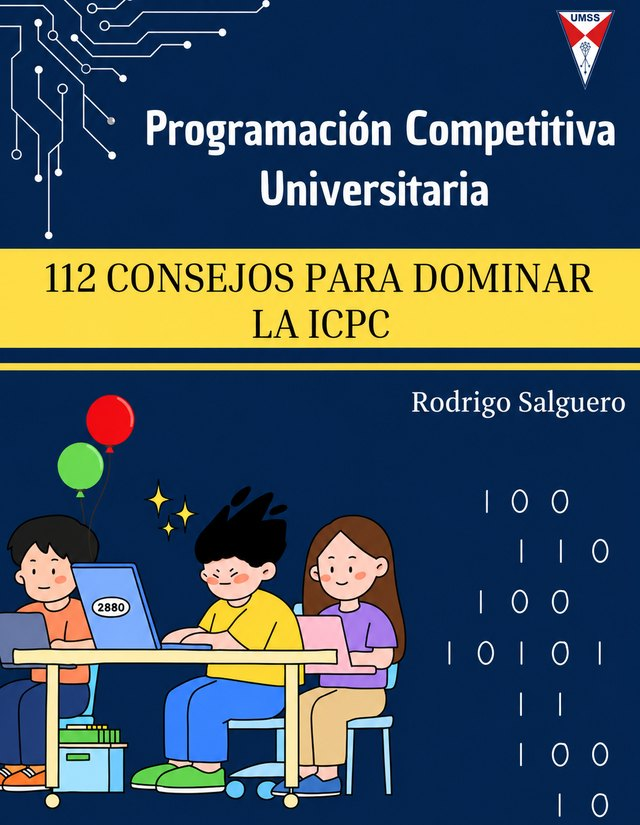
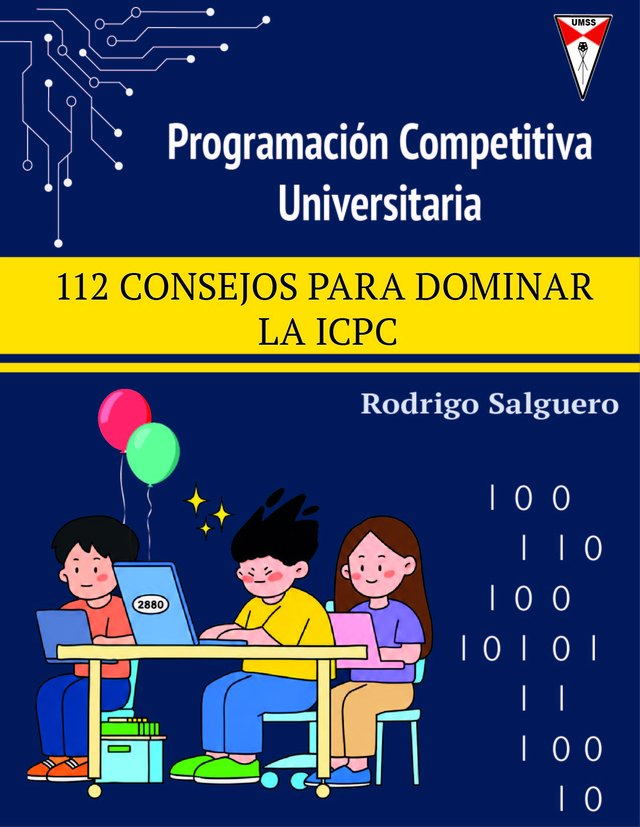
Tapa y contratapa finales del diseñador
- tapa.jpg y contratapa.jpg (CMYK, 300 dpi, tamaño exacto de página) reemplazan a las PNG
- Contratapa sin la franja blanca de la exportación
- main.tex: las imágenes ocupan exactamente la página (ya no traen sangrado)
- Web: tapa nueva y texto de "Sobre el libro" igual al de la contratapa
- CLAUDE.md y README actualizados

diff --git a/index.html b/index.html
@@ -209,7 +209,7 @@
 
   <header class="portada">
     <div class="contenedor">
-      <img class="tapa" src="web/tapa.jpg" width="640" height="825"
+      <img class="tapa" src="web/tapa.jpg" width="640" height="827"
            alt="Tapa del libro: Programación Competitiva Universitaria, 112 consejos para dominar la ICPC, de Rodrigo Salguero">
       <div>
         <p class="antetitulo">Equipo ICPC · UMSS</p>
@@ -232,7 +232,8 @@
       <div class="contenedor">
         <h2>Sobre el libro</h2>
         <blockquote class="cita">
-          <p>Rodrigo Salguero en este libro comparte su experiencia y la de otros competidores de Bolivia que han representado a sus Universidades y a nuestro país en justas competitivas en distintos niveles. Su trabajo de investigación ha culminado en este compendio de 112 consejos, que esperamos sea de provecho para los actuales y futuros competidores de nuestro país.</p>
+          <p>Rodrigo Salguero en este libro comparte su experiencia y la de otros competidores de Bolivia, quienes han representado a sus Universidades y a nuestro país en justas competitivas en distintos niveles.</p>
+          <p>Su trabajo de investigación ha culminado en este compendio de 112 consejos, que esperamos sea de provecho para los actuales y futuros competidores de nuestro país.</p>
           <footer>Leticia Blanco, Vladimir Costas · Equipo ICPC – UMSS</footer>
         </blockquote>
       </div>

diff --git a/main.tex b/main.tex
@@ -55,8 +55,8 @@
 
 \begin{document}
 
-% Página completa con una imagen (tapa/contratapa). Las imágenes traen
-% 3 mm de sangrado por lado (11.4 x 14.55 cm): lo que sobra queda fuera de la página.
+% Página completa con una imagen (tapa/contratapa). Las imágenes miden
+% exactamente la página (10.8 x 13.95 cm, sin sangrado).
 % Si \sintapas está definido (ver pachabook-sin-tapas.tex), no genera nada:
 % sale el libro sin tapa ni contratapa, conservando las páginas en blanco.
 \newcommand{\paginaimagen}[1]{%
@@ -64,7 +64,7 @@
     \clearpage
     \thispagestyle{empty}%
     \AddToShipoutPictureBG*{\AtPageCenter{%
-      \makebox(0,0){\includegraphics[width=11.4cm]{#1}}}}%
+      \makebox(0,0){\includegraphics[width=\paperwidth,height=\paperheight]{#1}}}}%
     \mbox{}%
     \clearpage
   \fi
@@ -80,7 +80,7 @@
 % ================== TAPA (sin número) ==================
 \pagenumbering{gobble}    % oculta numeración antes del contenido
 
-\paginaimagen{tapa}
+\paginaimagen{tapa.jpg}
 \paginablanco
 
 % ================== EPÍGRAFE ==================
@@ -108,6 +108,6 @@
 % con la numeración: la contratapa debe caer en página par.
 \clearpage
 \ifodd\value{page}\paginablanco\fi
-\paginaimagen{contratapa}
+\paginaimagen{contratapa.jpg}
 
 \end{document}

diff --git a/CLAUDE.md b/CLAUDE.md
@@ -8,7 +8,7 @@ Web publicada: https://pacha2880.github.io/pachabook/
 - `main.tex`: formato, tapa, epígrafe y contratapa; hace `\input{contenido}`.
 - `pachabook-sin-tapas.tex`: define `\sintapas` y carga `main.tex`; sale el libro sin tapa ni contratapa (para la imprenta), con las mismas páginas en blanco.
 - `contenido.tex`: todo el texto (presentación, prólogo, consejos, bonus, epílogo, bibliografía).
-- `tapa.png`, `contratapa.png`: incluyen 3 mm de sangrado. Aprobadas tal cual por el usuario; no retocarlas.
+- `tapa.jpg`, `contratapa.jpg`: versión final del diseñador, CMYK, 300 dpi, tamaño exacto de página (**sin sangrado**). No retocarlas.
 - `index.html`: portada web, escrita a mano.
 - `web/generar_web.py` + `web/plantilla_libro.html`: generan `libro.html` y `web/consejos.js` desde `contenido.tex` (el epígrafe lo toman de `main.tex`).
 - `web/tapa.jpg`: copia web de la tapa (sin sangrado), hecha a mano.
@@ -31,12 +31,13 @@ Web publicada: https://pacha2880.github.io/pachabook/
 ## Lo que no se actualiza solo
 
 - Si cambia la cantidad de consejos, buscar "112" en todo el repo (`index.html`, `contenido.tex`) y avisar que la tapa también lo dice.
-- Si cambia `tapa.png`, regenerar `web/tapa.jpg`.
+- Si cambia `tapa.jpg`, regenerar `web/tapa.jpg` (convertir a RGB, 640 px de ancho).
+- El texto de "Sobre el libro" en `index.html` es el de la contratapa: si cambia uno, actualizar el otro.
 - `generar_web.py` solo convierte los comandos LaTeX que el libro usa hoy. Si se agrega uno nuevo (tablas, notas al pie, fórmulas), adaptar el conversor y revisar `libro.html`.
 
 ## Pendiente
 
-- PDF completo: 70 páginas; sin tapas: 68 (múltiplo de 4). Si la tapa va en cartulina aparte, la imprenta podría pedir quitar las páginas en blanco del inicio y del final (quedarían 66).
+- Falta el archivo de tapa para imprenta: una sola pieza contratapa + lomo + tapa, con 3 mm de sangrado. Lo ideal es que lo arme el diseñador.
 
 ## Forma de trabajo
 

diff --git a/README.md b/README.md
@@ -28,7 +28,7 @@ Guía de bolsillo con consejos prácticos para el entrenamiento y la competencia
 | `main.tex` | Documento principal: formato, tapa, epígrafe y contratapa |
 | `contenido.tex` | Texto del libro |
 | `pachabook-sin-tapas.tex` | Genera el PDF sin tapa ni contratapa (activa `\sintapas` y carga `main.tex`) |
-| `tapa.png`, `contratapa.png` | Tapa y contratapa (incluyen 3 mm de sangrado) |
+| `tapa.jpg`, `contratapa.jpg` | Tapa y contratapa (CMYK, 300 dpi, tamaño exacto de página) |
 | `aceptados.png`, `envios.png` | Imágenes usadas en el contenido |
 | `index.html`, `web/` | Página web (GitHub Pages); `libro.html` se genera desde `contenido.tex` |
 
